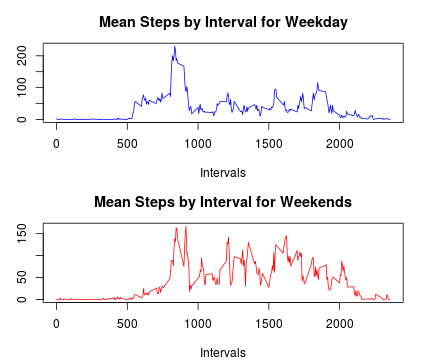
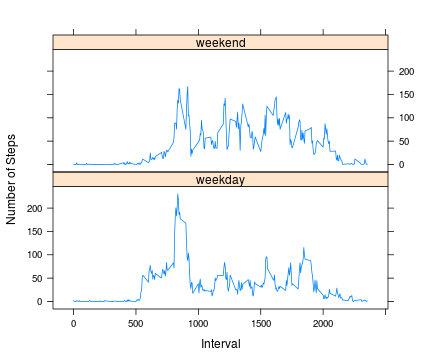
Submitted version

diff --git a/PA1_template.html b/PA1_template.html
@@ -377,30 +377,27 @@ str(newfulldata2$weekdays)
 <p>I transformed the dataframe to a data table and create two subsets with the mean of the steps of the 5 minute intervals during weekdays and weekends.   </p>
 
 <pre><code class="r">newfulldata2 &lt;- data.table(newfulldata2)
-result_weekday &lt;- newfulldata2[newfulldata2$weekdays==&quot;weekday&quot;,lapply(.SD,mean),by=interval, .SDcols=c(&quot;steps&quot;)]
-result_weekend &lt;- newfulldata2[newfulldata2$weekdays==&quot;weekend&quot;,lapply(.SD,mean),by=interval, .SDcols=c(&quot;steps&quot;)]
+result_weekdays&lt;- newfulldata2[,lapply(.SD,mean),by=c(&quot;interval&quot;,&quot;weekdays&quot;)]
 </code></pre>
 
-<p>These two variables are then plotted on a panel plot, using the standard plotting function (type=&ldquo;l&rdquo;).</p>
+<p>These two variables are then plotted on a panel plot, using the lattice plotting function (type=&ldquo;l&rdquo;).</p>
 
-<pre><code class="r">par(mfrow=c(2,1))
-par(mar=c(4, 3, 3, 2))
-plot(result_weekday$interval,result_weekday$steps,type = &quot;l&quot;, col=&quot;blue&quot;, main = &quot;Mean Steps by Interval for Weekday&quot;,xlab = &quot;Intervals&quot;, ylab = &quot;Average steps&quot;)
-plot(result_weekend$interval,result_weekend$steps,type = &quot;l&quot;, col=&quot;red&quot;, main = &quot;Mean Steps by Interval for Weekends&quot; ,xlab = &quot;Intervals&quot;, ylab = &quot;Average steps&quot;)
+<pre><code class="r">library(lattice)
+xyplot(steps~interval | weekdays, data = result_weekdays,type = &#39;l&#39;, xlab = &#39;Interval&#39;, ylab = &#39;Number of Steps&#39;,layout = c(1,2))
 </code></pre>
 
[2 lines of base64/hex data omitted]
 
-<p>The plot and the following summary states that the average number of steps is higher on weekends rather than during weekdays. </p>
+<p>The plot and the following summary states that the average number of steps is higher on weekends rather than during weekdays, but the average peak value is reached on weekdays. </p>
 
-<pre><code class="r">summary(result_weekday$steps)
+<pre><code class="r">summary(result_weekdays[result_weekdays$weekdays==&quot;weekday&quot;,]$steps)
 </code></pre>
 
 <pre><code>##    Min. 1st Qu.  Median    Mean 3rd Qu.    Max. 
 ##   0.000   2.247  25.800  35.610  50.850 230.400
 </code></pre>
 
-<pre><code class="r">summary(result_weekend$steps)
+<pre><code class="r">summary(result_weekdays[result_weekdays$weekdays==&quot;weekend&quot;,]$steps)
 </code></pre>
 
 <pre><code>##    Min. 1st Qu.  Median    Mean 3rd Qu.    Max. 

diff --git a/PA1_template.md b/PA1_template.md
@@ -196,27 +196,24 @@ I transformed the dataframe to a data table and create two subsets with the mean
 
 ```r
 newfulldata2 <- data.table(newfulldata2)
-result_weekday <- newfulldata2[newfulldata2$weekdays=="weekday",lapply(.SD,mean),by=interval, .SDcols=c("steps")]
-result_weekend <- newfulldata2[newfulldata2$weekdays=="weekend",lapply(.SD,mean),by=interval, .SDcols=c("steps")]
+result_weekdays<- newfulldata2[,lapply(.SD,mean),by=c("interval","weekdays")]
 ```
    
-These two variables are then plotted on a panel plot, using the standard plotting function (type="l").
+These two variables are then plotted on a panel plot, using the lattice plotting function (type="l").
    
 
 ```r
-par(mfrow=c(2,1))
-par(mar=c(4, 3, 3, 2))
-plot(result_weekday$interval,result_weekday$steps,type = "l", col="blue", main = "Mean Steps by Interval for Weekday",xlab = "Intervals", ylab = "Average steps")
-plot(result_weekend$interval,result_weekend$steps,type = "l", col="red", main = "Mean Steps by Interval for Weekends" ,xlab = "Intervals", ylab = "Average steps")
+library(lattice)
+xyplot(steps~interval | weekdays, data = result_weekdays,type = 'l', xlab = 'Interval', ylab = 'Number of Steps',layout = c(1,2))
 ```
 
 ![plot of chunk unnamed-chunk-13](figure/unnamed-chunk-13-1.png) 
 
-The plot and the following summary states that the average number of steps is higher on weekends rather than during weekdays. 
+The plot and the following summary states that the average number of steps is higher on weekends rather than during weekdays, but the average peak value is reached on weekdays. 
 
 
 ```r
-summary(result_weekday$steps)
+summary(result_weekdays[result_weekdays$weekdays=="weekday",]$steps)
 ```
 
 ```
@@ -225,7 +222,7 @@ summary(result_weekday$steps)
 ```
 
 ```r
-summary(result_weekend$steps)
+summary(result_weekdays[result_weekdays$weekdays=="weekend",]$steps)
 ```
 
 ```
